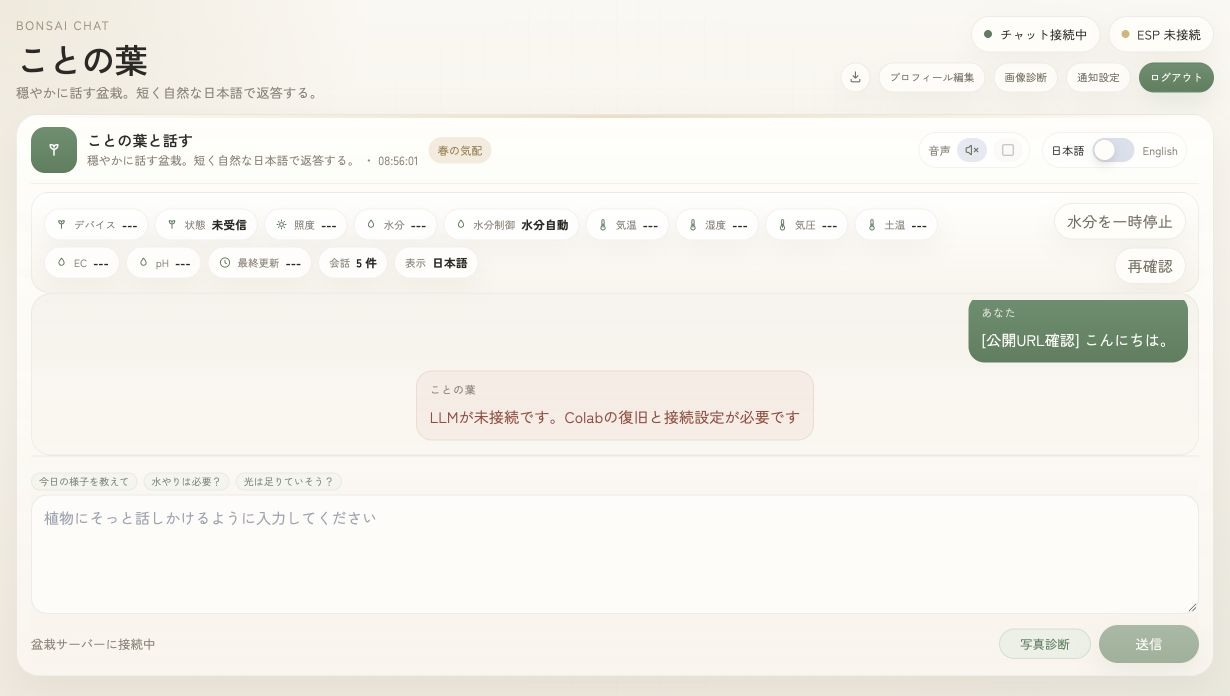
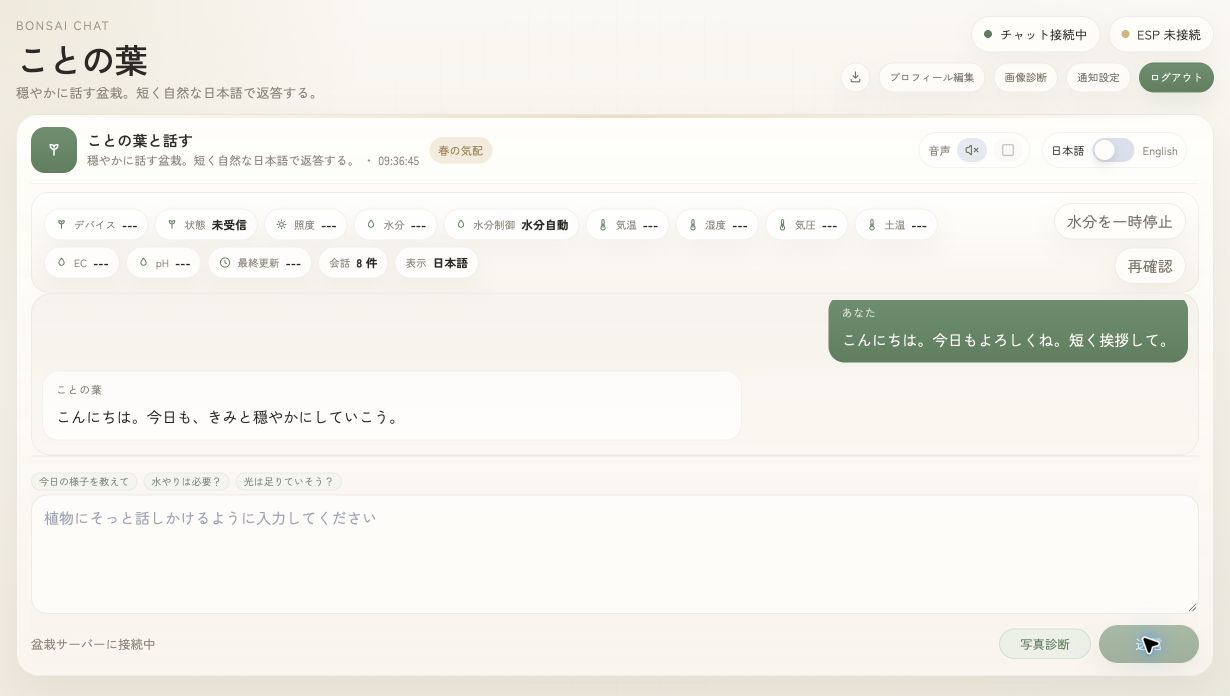
Finish verified Colab chat deployment

diff --git a/deploy/colab/configure_mac_llm.py b/deploy/colab/configure_mac_llm.py
@@ -11,6 +11,9 @@ import urllib.error
 import urllib.parse
 import urllib.request
 
+class VerificationError(RuntimeError):
+    """A fixed, credential-free diagnostic generated by this script."""
+
 class NoRedirects(urllib.request.HTTPRedirectHandler):
     def redirect_request(self, req, fp, code, msg, headers, newurl):
         return None
@@ -24,31 +27,51 @@ def main():
     args = parser.parse_args()
     base = args.base_url.rstrip('/')
     parsed = urllib.parse.urlsplit(base)
-    if parsed.scheme != 'https' or not parsed.hostname or (parsed.username is not None or parsed.password is not None) or parsed.query or parsed.fragment:
-        raise ValueError('Use the HTTPS API base URL without credentials, query, or fragment.')
+    if parsed.scheme != 'https' or not parsed.hostname or (parsed.username is not None or parsed.password is not None) or parsed.query or parsed.fragment or parsed.path != '/v1':
+        raise ValueError('Use the HTTPS /v1 API base URL without credentials, query, or fragment.')
+    origin = urllib.parse.urlunsplit((parsed.scheme, parsed.netloc, '', '', ''))
     key = args.key_file.read_text().strip() if args.key_file else getpass.getpass('Existing VLLM API key (hidden): ')
     if not key or '\n' in key or '\r' in key:
         raise ValueError('A nonempty single-line key is required.')
     opener = urllib.request.build_opener(NoRedirects())
-    def request(path, payload=None, authenticated=True):
+    def request(path, payload=None, token=key, method=None, api_relative=True):
         headers = {'ngrok-skip-browser-warning': '1'}
-        if authenticated:
-            headers['Authorization'] = 'Bearer ' + key
+        if token is not None:
+            headers['Authorization'] = 'Bearer ' + token
         data = None
         if payload is not None:
             headers['Content-Type'] = 'application/json'
             data = json.dumps(payload, ensure_ascii=False).encode()
-        return opener.open(urllib.request.Request(base + path, data=data, headers=headers), timeout=180)
-    try:
-        with request('/models', authenticated=False):
-            raise RuntimeError('Endpoint accepts unauthenticated model access; verify server authentication first.')
-    except urllib.error.HTTPError as error:
-        if error.code not in (401, 403):
-            raise RuntimeError('Endpoint is not ready for authentication verification.') from None
+        # Preserve raw dot segments and encoded paths for the route checks.
+        url = (base if api_relative else origin) + path
+        return opener.open(urllib.request.Request(url, data=data, headers=headers, method=method), timeout=180)
+    for token in (None, key + '-invalid'):
+        try:
+            with request('/models', token=token):
+                raise VerificationError('Endpoint accepts missing or invalid credentials; verify server authentication first.')
+        except urllib.error.HTTPError as error:
+            if error.code not in (401, 403):
+                raise VerificationError('Endpoint is not ready for authentication verification.') from None
+    blocked_routes = (
+        ('POST', '/invocations'), ('GET', '/load'), ('GET', '/health'),
+        ('GET', '/docs'), ('POST', '/tokenize'), ('POST', '/v1/../invocations'),
+        ('POST', '/v1/%2e%2e/invocations'), ('GET', '/v1/models/'),
+        ('GET', '/v1/./models'), ('GET', '/v1/%6dodels'),
+        ('POST', '/v1/models'), ('OPTIONS', '/v1/models'),
+        ('GET', '/v1/chat/completions'),
+    )
+    for method, path in blocked_routes:
+        try:
+            with request(path, payload={} if method == 'POST' else None,
+                         token=None, method=method, api_relative=False):
+                raise VerificationError('A disallowed public route is reachable; verify the tunnel policy first.')
+        except urllib.error.HTTPError as error:
+            if error.code != 404:
+                raise VerificationError('Disallowed public routes must return HTTP 404 before configuring the Mac.') from None
     with request('/models') as response:
         model_ids = [item['id'] for item in json.load(response).get('data', [])]
     if args.model not in model_ids:
-        raise RuntimeError('Expected model ID not returned; confirm /v1/models before continuing.')
+        raise VerificationError('Expected model ID not returned; confirm /v1/models before continuing.')
     content = []
     complete = False
     payload = {'model': args.model, 'messages': [{'role': 'user', 'content': '日本語で短く挨拶してください。'}],
@@ -56,7 +79,7 @@ def main():
                'chat_template_kwargs': {'enable_thinking': False}}
     with request('/chat/completions', payload) as response:
         if 'text/event-stream' not in response.headers.get('Content-Type', ''):
-            raise RuntimeError('Expected a streaming SSE response.')
+            raise VerificationError('Expected a streaming SSE response.')
         for line in response:
             line = line.decode('utf-8').strip()
             if not line.startswith('data:'):
@@ -67,13 +90,13 @@ def main():
                 break
             event = json.loads(data)
             if 'error' in event:
-                raise RuntimeError('Upstream returned a streaming error.')
+                raise VerificationError('Upstream returned a streaming error.')
             for choice in event.get('choices', []):
                 piece = choice.get('delta', {}).get('content')
                 if piece:
                     content.append(piece)
     if not complete or not ''.join(content).strip():
-        raise RuntimeError('No complete nonempty assistant response; configuration was not saved.')
+        raise VerificationError('No complete nonempty assistant response; configuration was not saved.')
     values = {'LLM_PROVIDER': 'openai-compatible', 'LLM_BASE_URL': base,
               'LLM_MODEL': args.model, 'LLM_API_KEY': key}
     # Go's godotenv double-quoted form handles escaping without command execution.
@@ -94,7 +117,7 @@ def main():
     finally:
         if os.path.exists(temporary):
             os.unlink(temporary)
-    print('PASS: authentication required; model verified; nonempty SSE stream completed.')
+    print('PASS: missing/invalid credentials rejected; public routes restricted; model verified; nonempty SSE stream completed.')
     print(f'Updated {path} (0600). Key and response text were not printed.')
 
 if __name__ == '__main__':
@@ -104,6 +127,8 @@ if __name__ == '__main__':
         # Never emit response bodies, request headers, or credential-containing URLs.
         if isinstance(error, urllib.error.HTTPError):
             print(f'Connection verification failed: HTTP {error.code}. Configuration was not saved.')
+        elif isinstance(error, VerificationError):
+            print(f'Connection verification failed: {error}')
         else:
             print(f'Connection verification failed: {type(error).__name__}. Configuration was not saved.')
         raise SystemExit(1)

diff --git a/deploy/colab/reconnect_cells.py b/deploy/colab/reconnect_cells.py
@@ -48,6 +48,17 @@ if not VLLM_API_KEY or not NGROK_AUTHTOKEN:
 if not VLLM_API_KEY or not NGROK_AUTHTOKEN:
     raise RuntimeError('Missing secret: save it in Colab Secrets and enable notebook access; never print it.')
 if not SERVER_ALREADY_RUNNING:
+    # pgrep emits only PIDs; never print process arguments containing the API key.
+    existing_vllm = subprocess.run(
+        ['pgrep', '-f', r'(^|[ /])vllm[[:space:]]+serve([[:space:]]|$)'],
+        stdout=subprocess.PIPE, stderr=subprocess.DEVNULL, text=True,
+    )
+    if existing_vllm.returncode not in (0, 1):
+        raise RuntimeError('Could not inspect existing vLLM processes; do not start another server.')
+    if existing_vllm.returncode == 0:
+        print({'existing_vllm_pids': [int(pid) for pid in existing_vllm.stdout.split() if pid.isdigit()],
+               'status': 'startup_pending'})
+        raise RuntimeError('既存のvLLMプロセスが起動待ちです。起動状況とhealthを再確認してから再実行してください。')
     with socket.socket() as probe:
         if probe.connect_ex(('127.0.0.1', PORT)) == 0:
             raise RuntimeError('Port 8000 is already occupied; inspect it without terminating it.')
@@ -91,14 +102,46 @@ if SERVED_MODEL not in model_ids:
     raise RuntimeError('Expected model ID absent; inspect actual /v1/models before changing configuration.')
 print({'models': model_ids, 'local_auth_verified': True})
 
-# %% 5. Reuse ngrok or establish exactly one LLM-only tunnel.
+# %% 5. Reuse a verified tunnel or establish exactly one protected LLM-only tunnel.
 import inspect
 import ngrok
 os.environ['NGROK_AUTHTOKEN'] = NGROK_AUTHTOKEN
-if 'tunnel' not in globals():
-    tunnel = ngrok.forward('http://127.0.0.1:8000', authtoken_from_env=True)
-if inspect.isawaitable(tunnel):
-    tunnel = await tunnel
+# vLLM protects /v1 with the API key, but other generation routes can be unprotected.
+# Only these exact method/path pairs may reach the LLM from the public tunnel.
+traffic_policy = {
+    'on_http_request': [{
+        'expressions': [
+            "!((req.method == 'GET' && req.url.path == '/v1/models' && req.url.raw_path == '/v1/models') || "
+            "(req.method == 'POST' && req.url.path == '/v1/chat/completions' && req.url.raw_path == '/v1/chat/completions'))"
+        ],
+        'actions': [{'type': 'custom-response', 'config': {
+            'status_code': 404, 'body': 'Not found', 'headers': {'content-type': 'text/plain'}
+        }}],
+    }],
+}
+policy_json = json.dumps(traffic_policy, sort_keys=True)
+existing_tunnel = globals().get('tunnel')
+protected_tunnel = (
+    existing_tunnel is not None
+    and globals().get('_kotonoha_protected_tunnel') is existing_tunnel
+    and globals().get('_kotonoha_tunnel_policy') == policy_json
+)
+if existing_tunnel is not None and not protected_tunnel:
+    raise RuntimeError('Existing tunnel policy is unverified. Inspect and explicitly close only that old tunnel, delete the tunnel variable, then rerun this cell.')
+listeners = ngrok.get_listeners()
+if inspect.isawaitable(listeners):
+    listeners = await listeners
+if any(not protected_tunnel or listener.url() != existing_tunnel.url() for listener in listeners):
+    raise RuntimeError('An unverified ngrok listener is active. Inspect and explicitly close it before creating the protected LLM tunnel.')
+if not listeners:
+    tunnel = ngrok.forward(
+        'http://127.0.0.1:8000', authtoken_from_env=True,
+        traffic_policy=policy_json,
+    )
+    if inspect.isawaitable(tunnel):
+        tunnel = await tunnel
+    _kotonoha_protected_tunnel = tunnel
+    _kotonoha_tunnel_policy = policy_json
 PUBLIC_BASE_URL = tunnel.url().rstrip('/') + '/v1'
 if not PUBLIC_BASE_URL.startswith('https://'):
     raise RuntimeError('Expected HTTPS tunnel URL.')

diff --git a/deploy/mac/manage.py b/deploy/mac/manage.py
@@ -96,6 +96,9 @@ def serve():
         raise RuntimeError('すでに起動しています')
     for port in [3000, 8080, 8787]:
         with socket.socket() as sock:
+            # Ignore TIME_WAIT sockets left by the previous server, while still
+            # rejecting a port with an active listener.
+            sock.setsockopt(socket.SOL_SOCKET, socket.SO_REUSEADDR, 1)
             sock.bind(('127.0.0.1', port))
     children = []
     stopping = False
